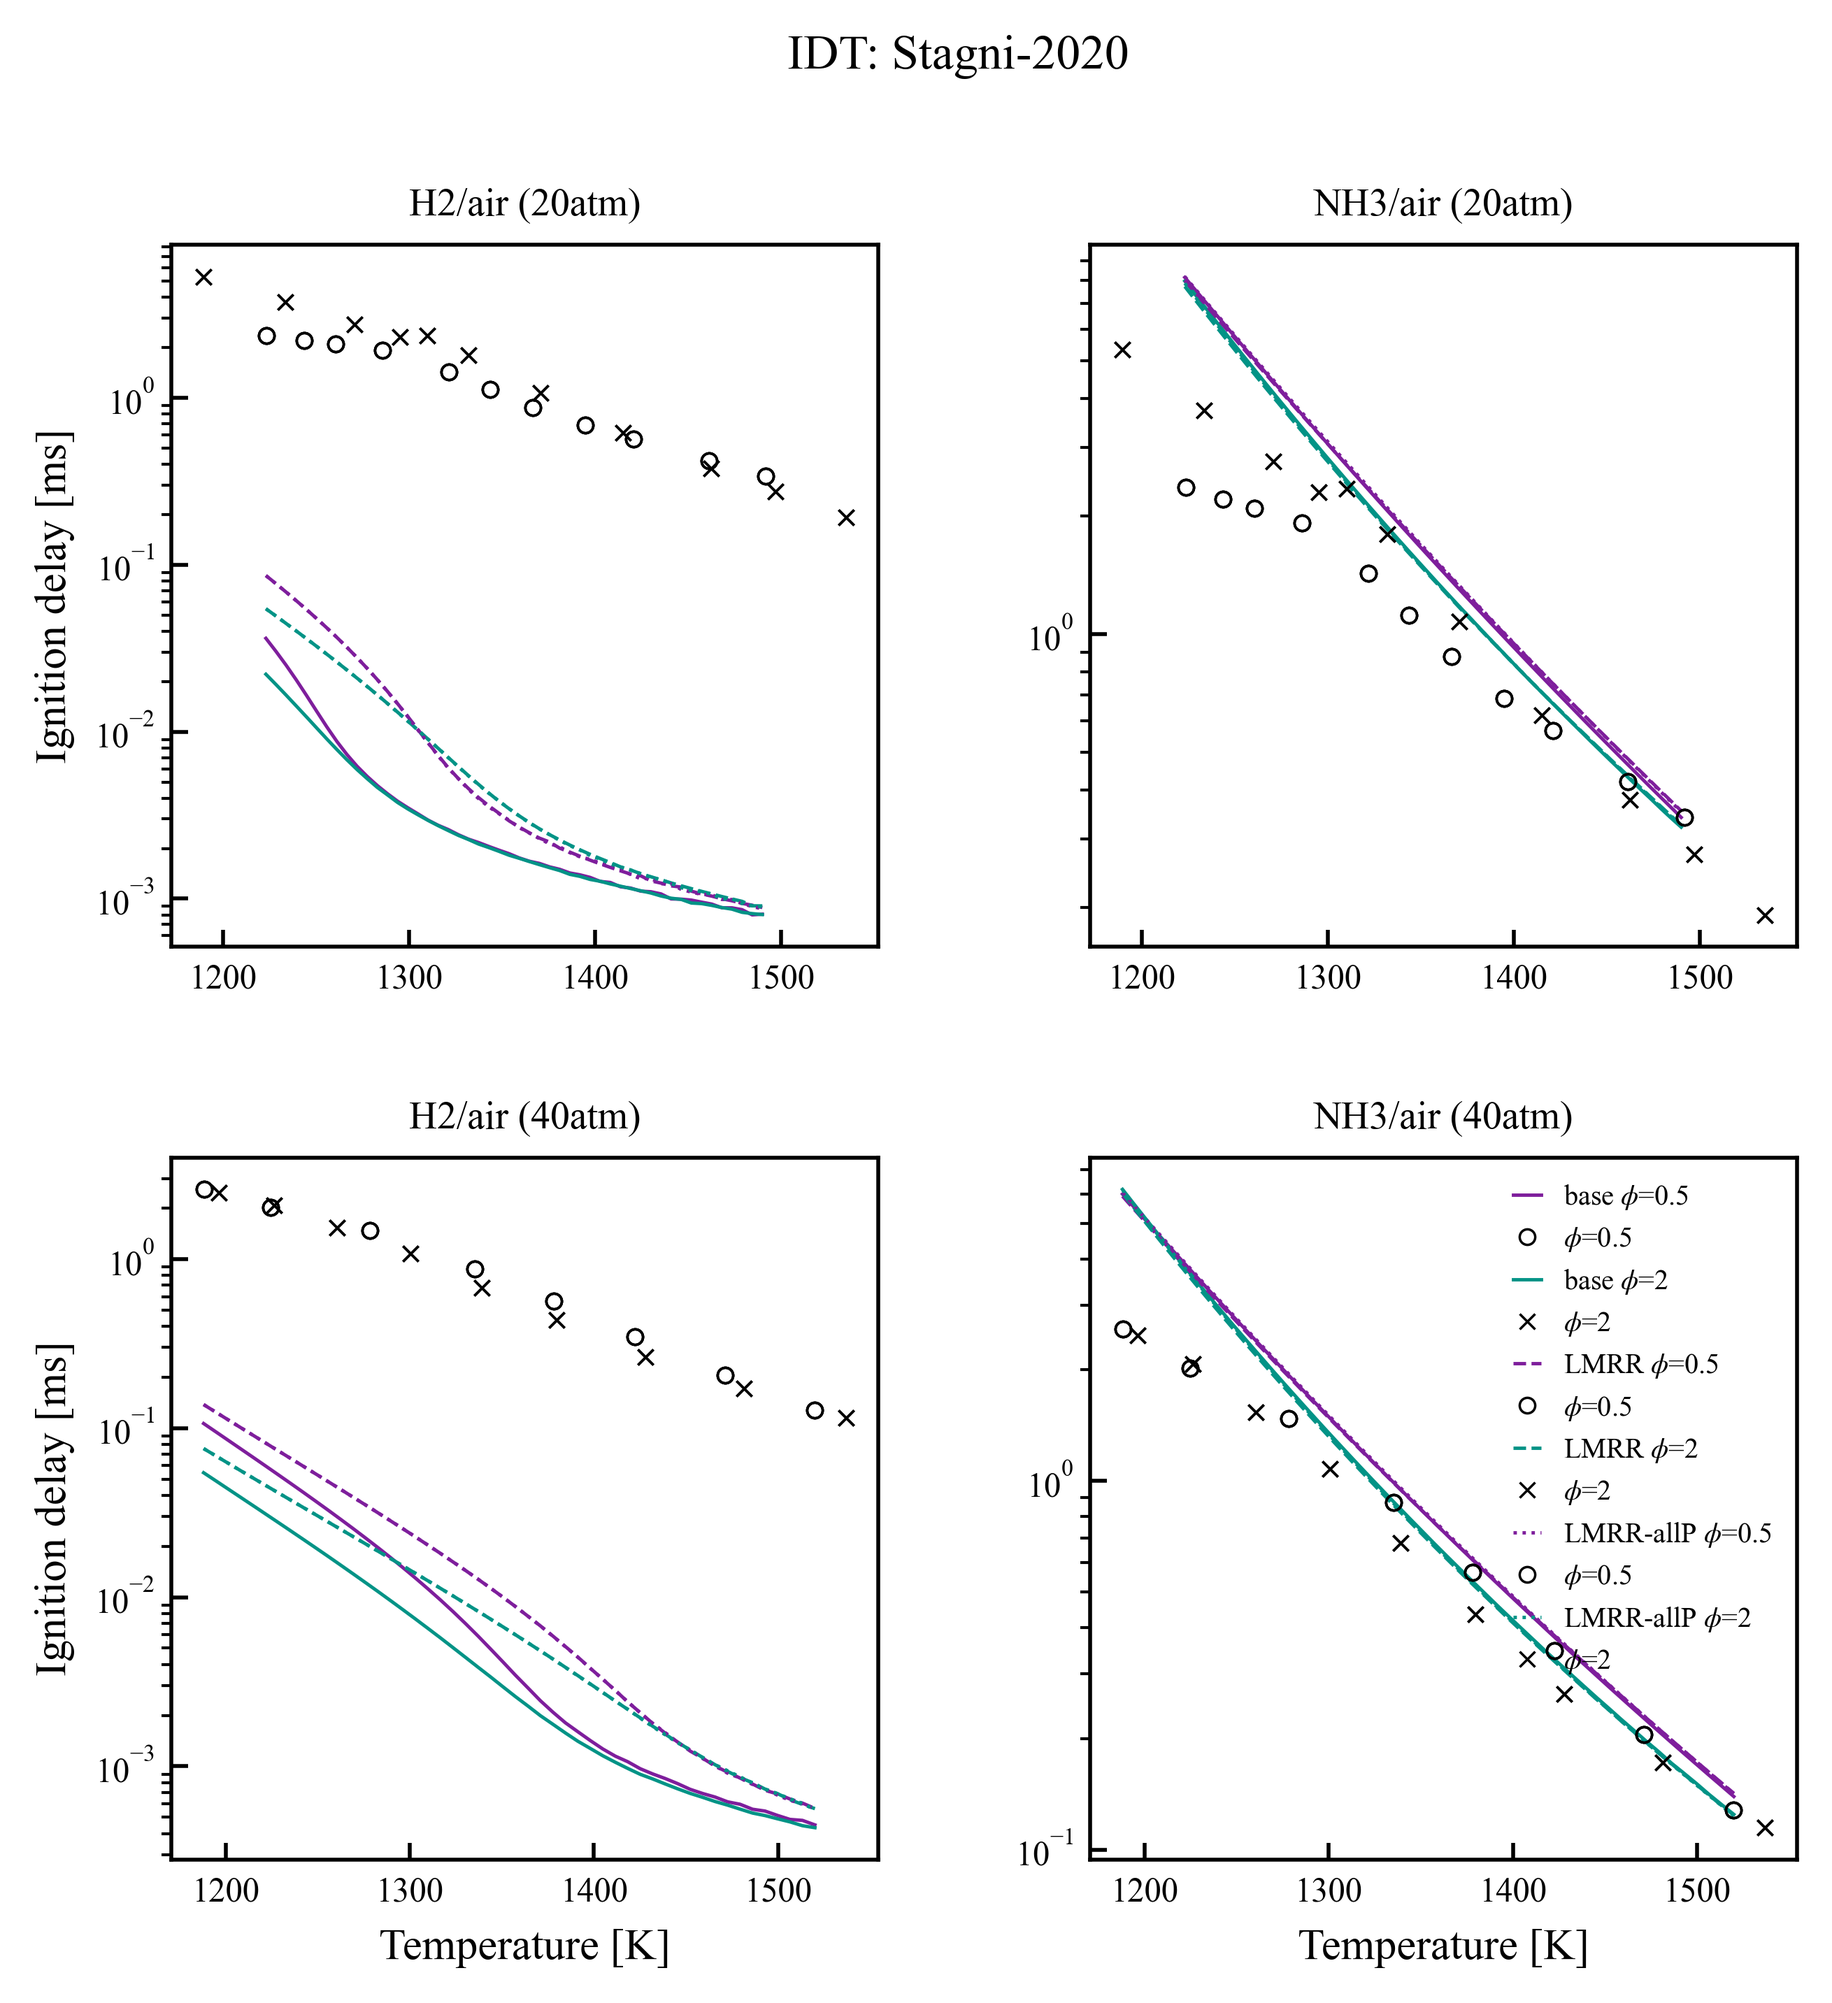
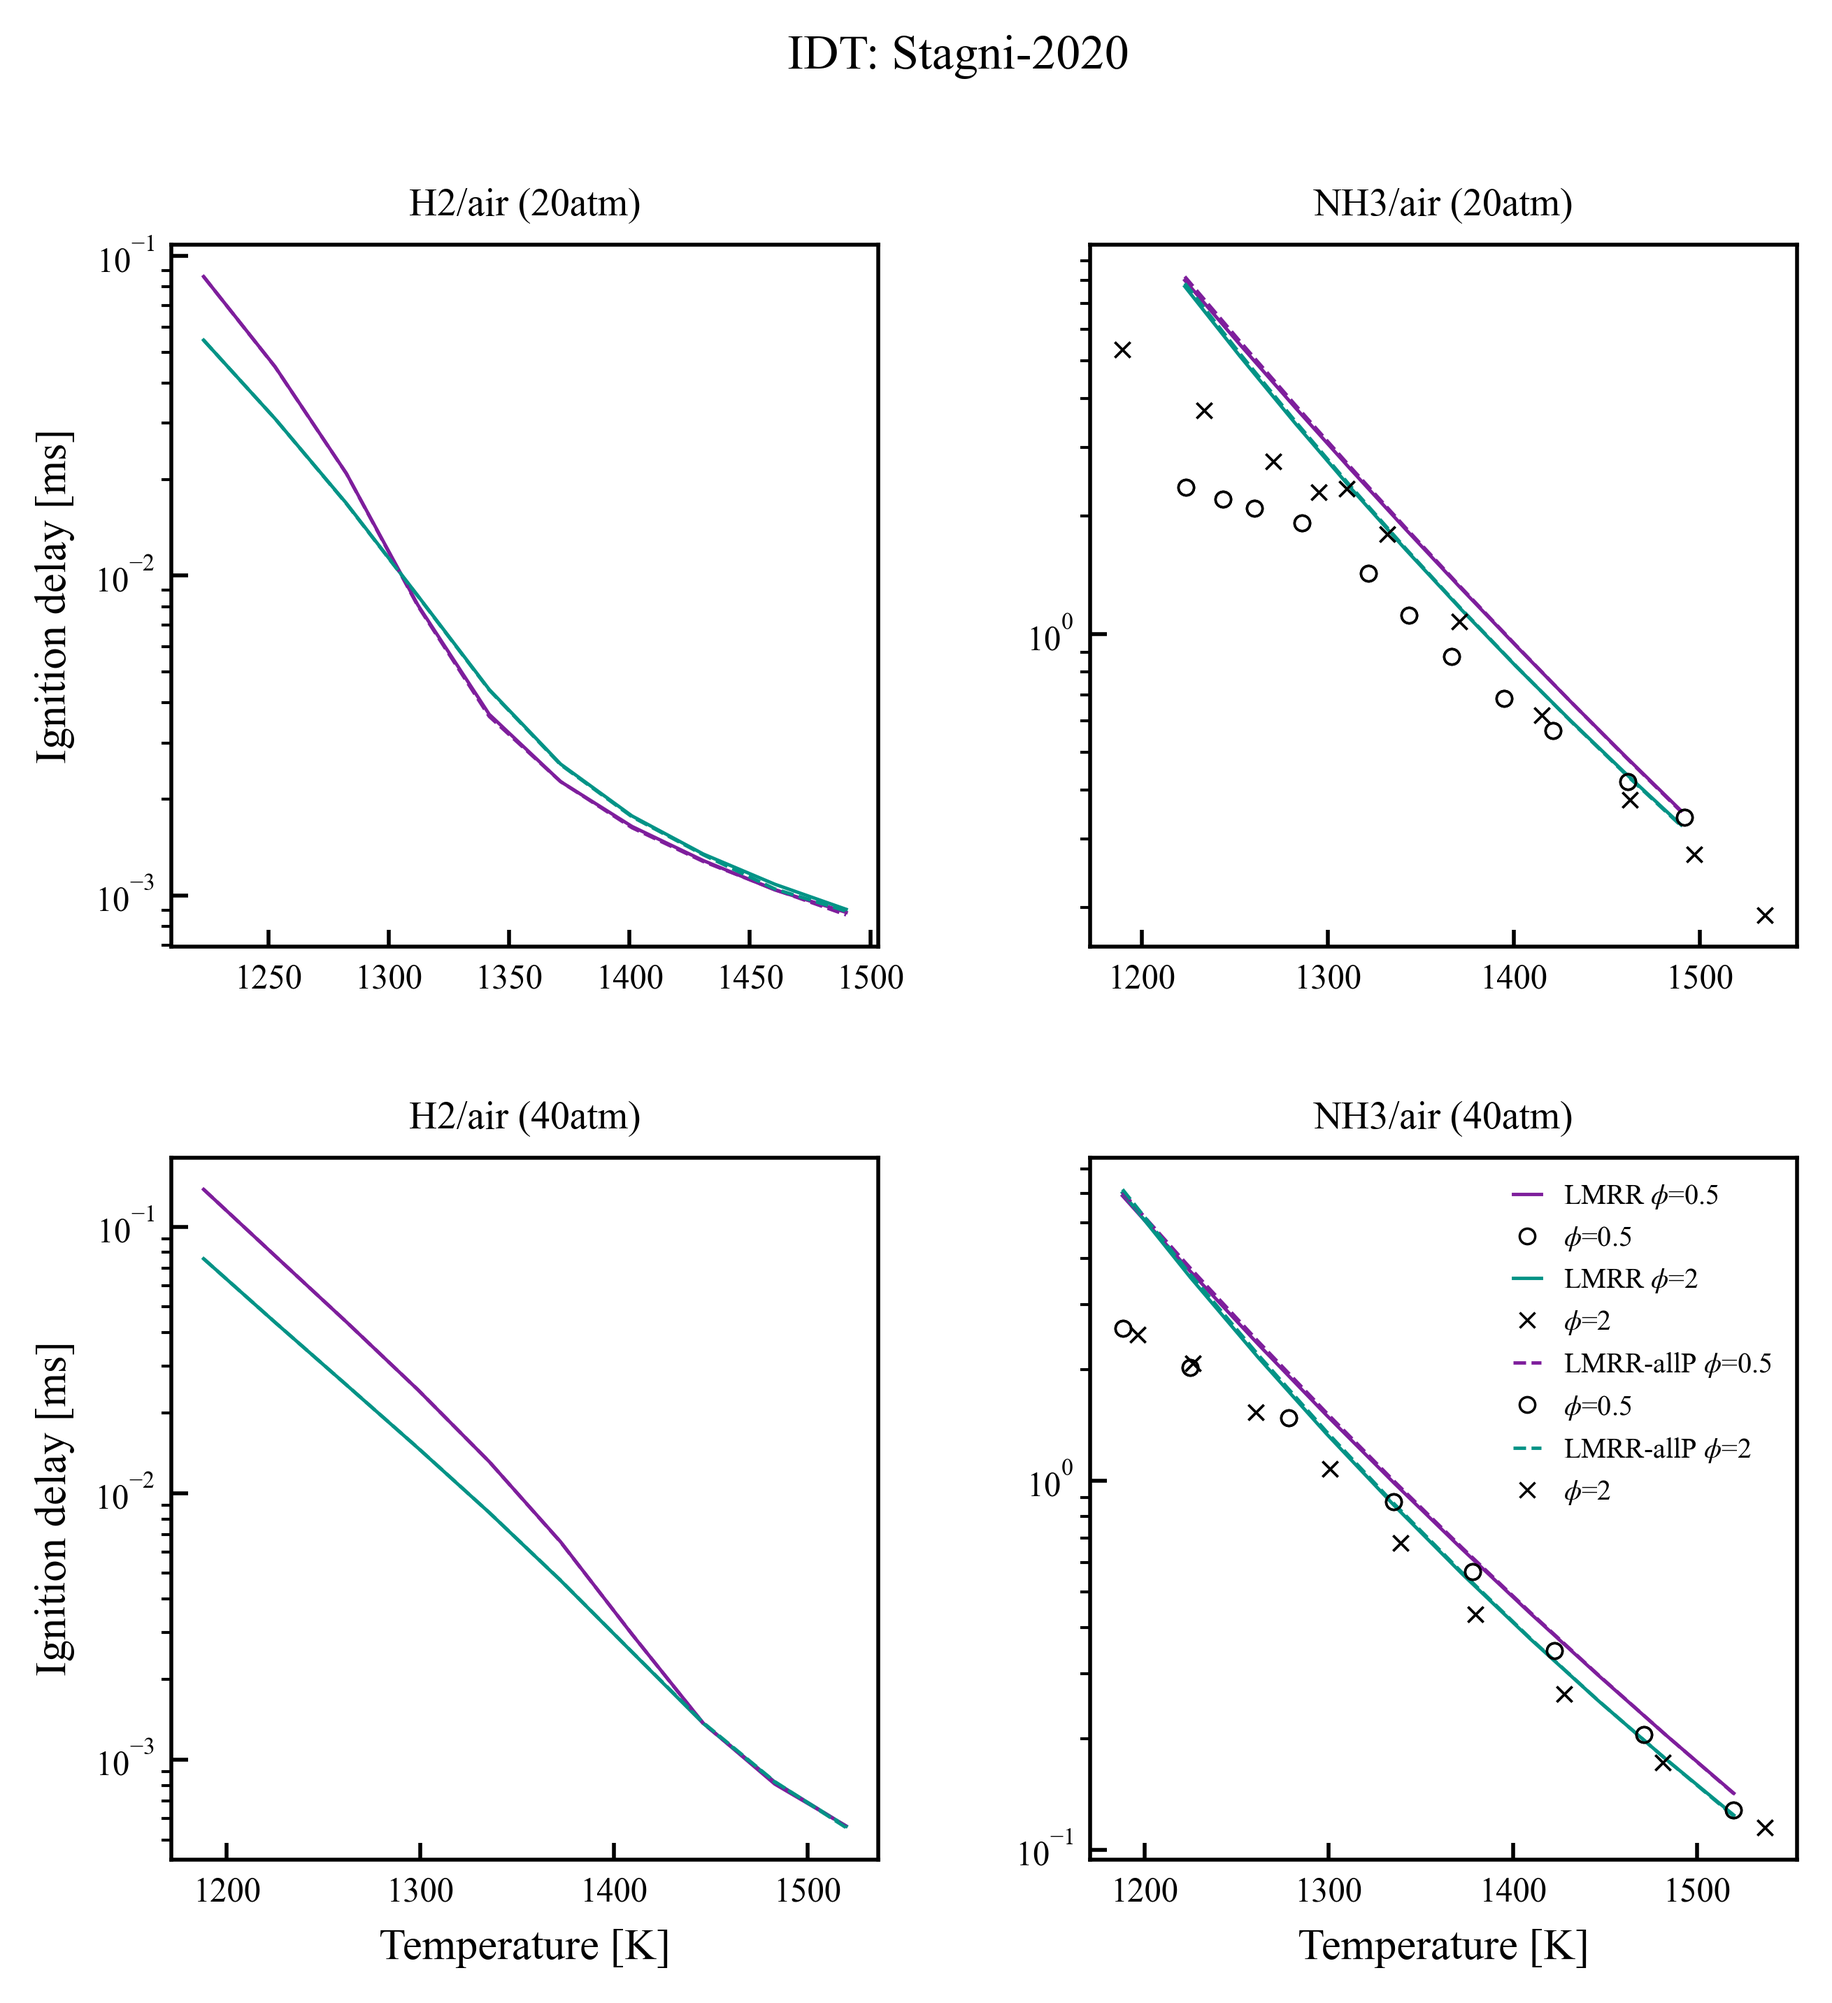
pretty good IDT-stagni sim

diff --git a/USSCI/simulateIDT_USSCI.py b/USSCI/simulateIDT_USSCI.py
@@ -75,7 +75,7 @@ plt.rcParams['axes.labelsize'] = args.fszaxlab
 models = {
     'Stagni-2020': {
         'submodels': {
-            'base': r"chemical_mechanisms/Stagni-2020/stagni-2020.yaml",
+            # 'base': r"chemical_mechanisms/Stagni-2020/stagni-2020.yaml",
             'LMRR': f"USSCI/factory_mechanisms/{args.date}/stagni-2020_LMRR.yaml",
             'LMRR-allP': f"USSCI/factory_mechanisms/{args.date}/stagni-2020_LMRR_allP.yaml",
                     },
@@ -85,9 +85,6 @@ models = {
         'P_list':[20,40],
         'T_range':[[1223,1490],
                    [1188,1520]]
-        # 'T_range':[[1490,1223],
-        #            [1520,1188]]
-
     }
 }
 
@@ -156,8 +153,10 @@ for model in models:
                     # gas.set_equivalence_ratio(phi,fuel,models[model]['oxidizer'],basis='mole')
                     ignitionDelays = getIDT(phi,fuel,models[model]['oxidizer'],T_list,P)
                     ax[z,w].semilogy(T_list, ignitionDelays*1e3, color=colors[i], linestyle=lstyles[k], linewidth=lw, label=f'{m} '+r'$\phi$='+f'{phi}')
-                    dat = pd.read_csv(f'USSCI/graph-reading/{model}/{P}bar_{phi}phi.csv',header=None)
-                    ax[z,w].semilogy(dat.iloc[:,0],dat.iloc[:,1],mkrs[i],fillstyle='none',linestyle='none',color='k',markersize=msz,markeredgewidth=mw,label=r'$\phi$='+f'{phi}', zorder=120)
+                    
+                    if fuel=='NH3':
+                        dat = pd.read_csv(f'USSCI/graph-reading/{model}/{P}bar_{phi}phi.csv',header=None)
+                        ax[z,w].semilogy(dat.iloc[:,0],dat.iloc[:,1],mkrs[i],fillstyle='none',linestyle='none',color='k',markersize=msz,markeredgewidth=mw,label=r'$\phi$='+f'{phi}', zorder=120)
             
             ax[z,w].set_title(f"{fuel}/air ({P}atm)",fontsize=8)
             ax[z,w].tick_params(axis='both',direction='in')
